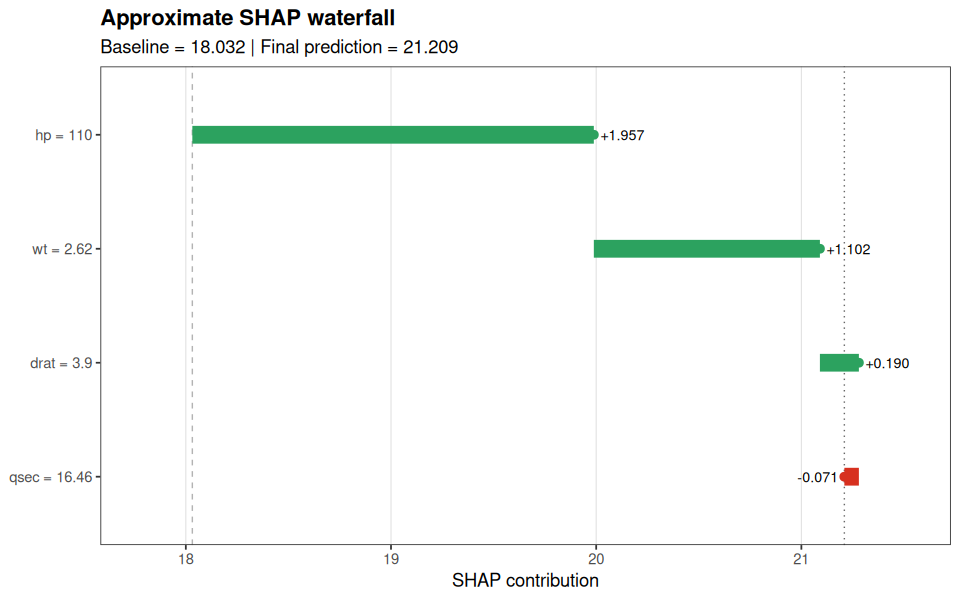
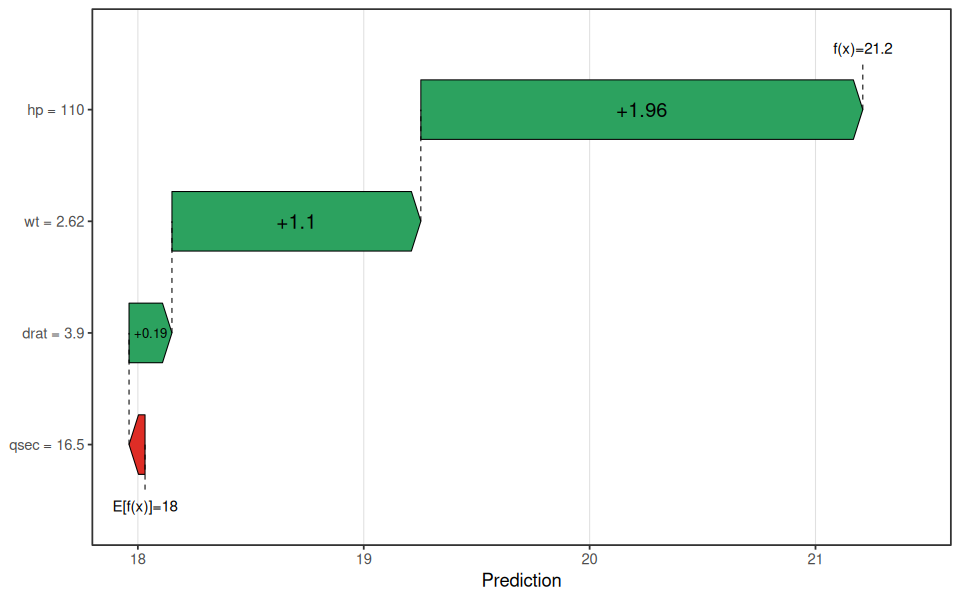
refactor: require shapviz for shap plots

diff --git a/NEWS.md b/NEWS.md
@@ -3,9 +3,9 @@
 - Refined the README into a more detailed progressive API walkthrough with
   additional tables, figures, and staged examples covering the full package
   surface.
-- Hardened interpretability to use fully internal runtime paths: `vip` now
-  always uses permutation importance and SHAP plotting no longer branches to
-  optional external packages.
+- Hardened interpretability runtime paths by forcing `vip` to use
+  permutation importance consistently while retaining `shapviz`-enhanced
+  SHAP plotting when the optional plotting packages are installed.
 
 # funcml 0.7.0
 